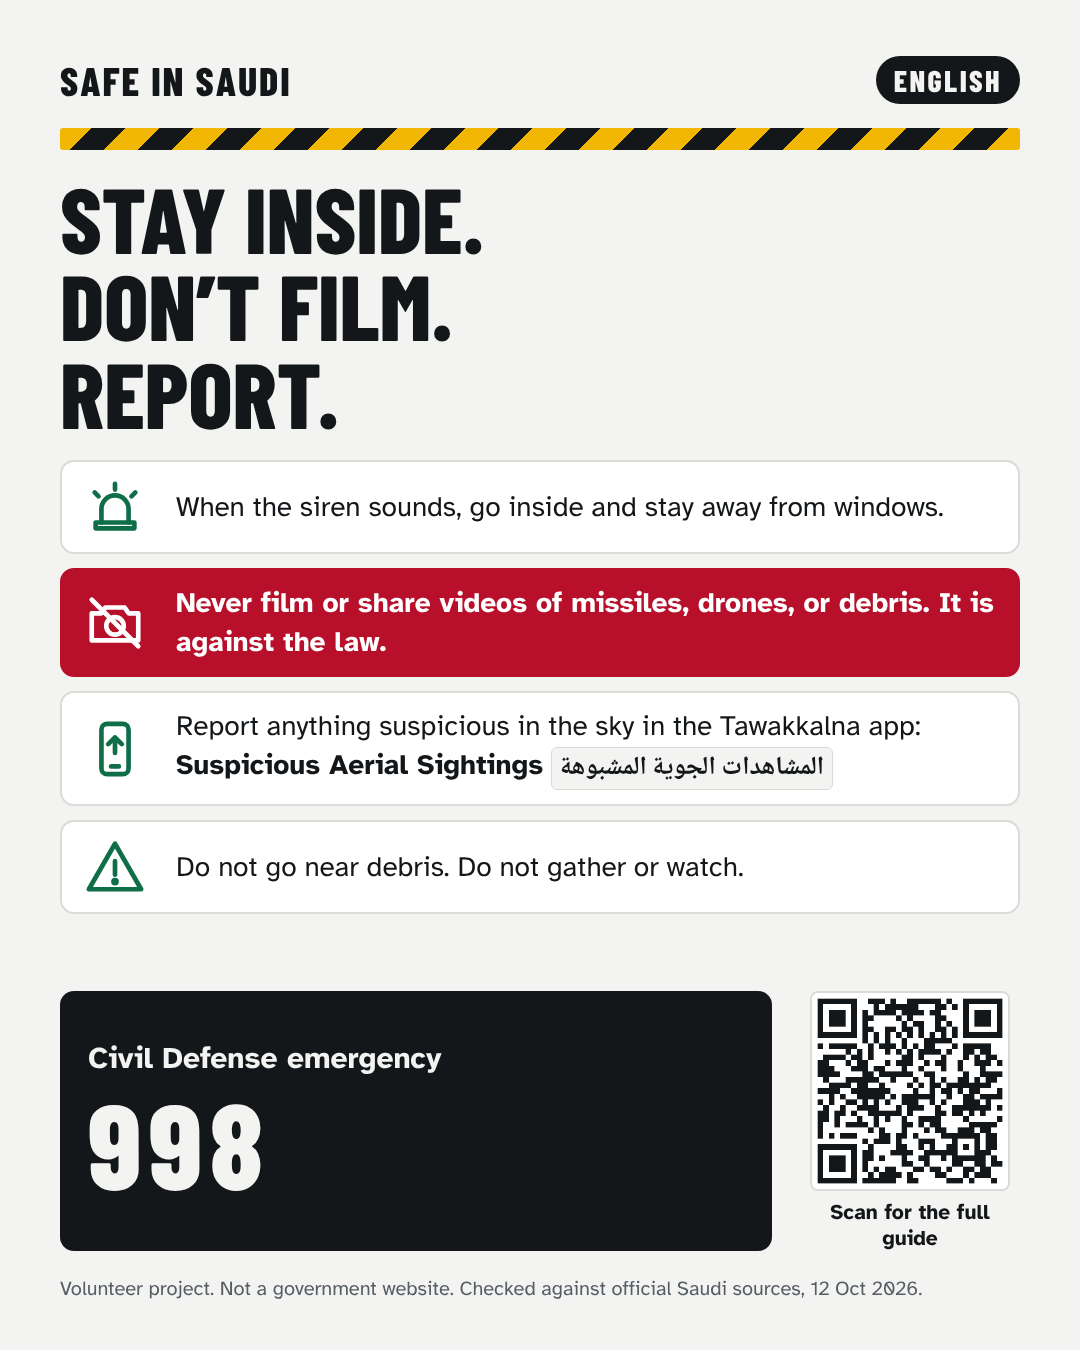
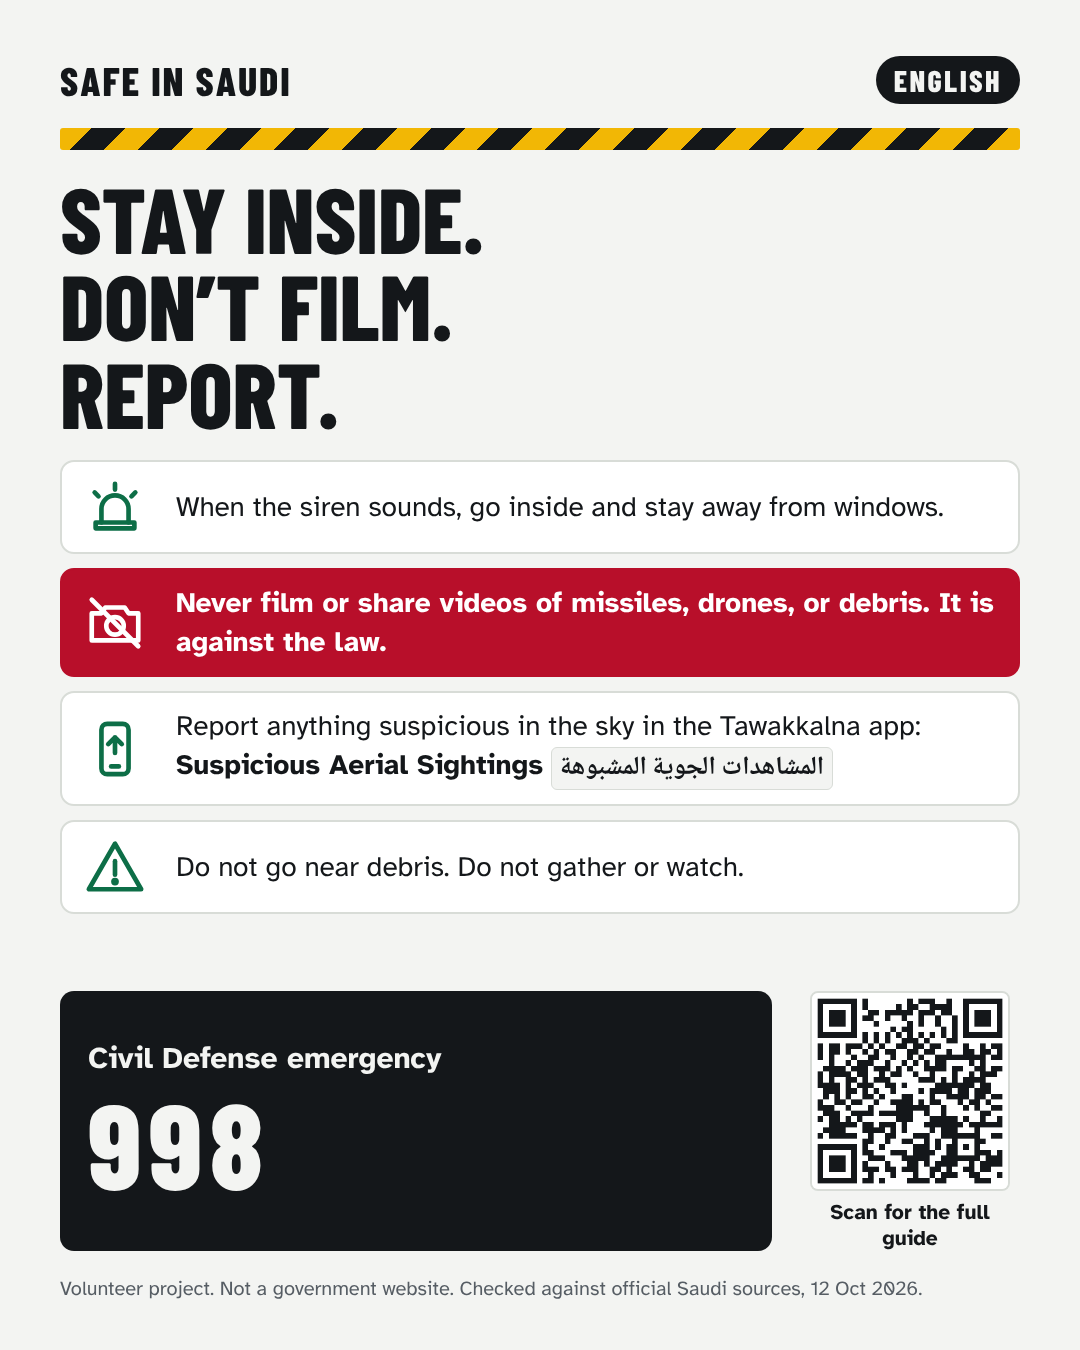
Point share links and poster QR codes at the GitHub Pages site

Changed region(s): [[0.7333, 0.7156, 0.9472, 0.9022]]

diff --git a/index.html b/index.html
@@ -320,7 +320,7 @@ footer p{margin:0}
 </div>
 
 <script>
-const BASE = "https://claude.ai/artifact/Emb4R2DiMbKYkimKVtGnKa";
+const BASE = "https://mosabhavi.github.io/safe-in-saudi/";
 const AR = '<span class="ar" lang="ar" dir="rtl">المشاهدات الجوية المشبوهة</span>';
 const L = (href, text) => '<a href="' + href + '" target="_blank" rel="noopener" dir="ltr">' + text + '</a>';
 const NVG = L("https://nvg.gov.sa", "nvg.gov.sa");

diff --git a/README.md b/README.md
@@ -1,1 +1,22 @@
-# safe-in-saudi
+# Safe in Saudi
+
+Wartime safety instructions for people living in Saudi Arabia who don't read Arabic, in English, Tagalog, Urdu, Hindi and Bengali.
+
+Every instruction comes from official Saudi statements (Ministry of Interior, Ministry of Defense, Civil Defense), linked at the bottom of the page. This is a volunteer project and is not affiliated with any government agency.
+
+## What's here
+
+- `index.html`: the whole site in one file. Open `index.html#tl`, `#ur`, `#hi` or `#bn` to start in that language.
+- `posters/`: one shareable poster per language, with a QR code that opens the site in that language.
+
+## Covered
+
+- The three siren tones and phone alerts
+- What to do inside a building, outside, or while driving
+- Never filming or sharing interceptions or debris (legal warning)
+- Reporting suspicious aerial sightings in Tawakkalna
+- Debris: stay away, call Civil Defense on 998
+- Official news sources, embassy links, official ways to help
+- A three-question check
+
+Last checked against official sources: 12 October 2026. If official guidance changes, the official guidance wins.
